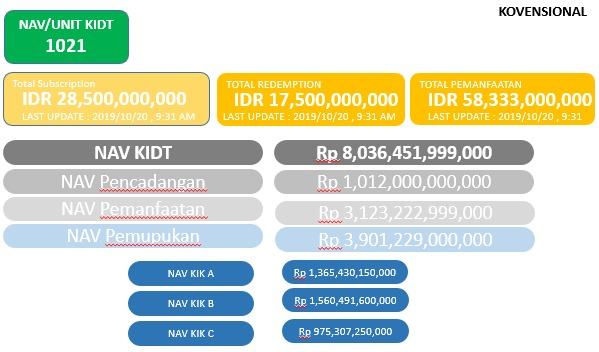
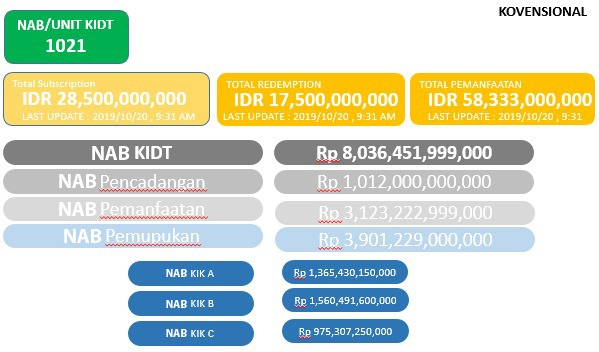
udah update

diff --git a/src/app/views/pages/dashboardreport/dashboardreport.component.html b/src/app/views/pages/dashboardreport/dashboardreport.component.html
@@ -83,7 +83,7 @@
                     </ng-container>
 
                     <ng-container matColumnDef="Total NAV">
-                        <th mat-header-cell *matHeaderCellDef mat-sort-header>Total NAV</th>
+                        <th mat-header-cell *matHeaderCellDef mat-sort-header>Total NAB</th>
                         <td mat-cell *matCellDef="let product">{{product.nav}}</td>
                     </ng-container>
 
@@ -151,7 +151,7 @@
                     </ng-container>
 
                     <ng-container matColumnDef="nav">
-                        <th mat-header-cell *matHeaderCellDef mat-sort-header>NAV</th>
+                        <th mat-header-cell *matHeaderCellDef mat-sort-header>NAB</th>
                         <td mat-cell *matCellDef="let product">{{product.nav}}</td>
                     </ng-container>
 
@@ -210,7 +210,7 @@
                     </ng-container>
 
                     <ng-container matColumnDef="nav">
-                        <th mat-header-cell *matHeaderCellDef mat-sort-header>NAV</th>
+                        <th mat-header-cell *matHeaderCellDef mat-sort-header>NAB</th>
                         <td mat-cell *matCellDef="let product">{{product.nav}}</td>
                     </ng-container>
 
@@ -219,11 +219,12 @@
                         <td mat-cell *matCellDef="let product">{{product.nilaik | currency:'Rp.'}}</td>
                     </ng-container>
                     <ng-container matColumnDef="tglsetor">
-                        <th mat-header-cell *matHeaderCellDef mat-sort-header>Setor</th>
+                        <th mat-header-cell *matHeaderCellDef mat-sort-header>Tanggal Setor</th>
                         <td mat-cell *matCellDef="let product">{{product.tsetor}}</td>
                     </ng-container>
                     <ng-container matColumnDef="jmlsetor">
                         <th mat-header-cell *matHeaderCellDef mat-sort-header>Jumlah</th>
+                        <!-- <td mat-cell *matCellDef="let product">{{product.nilaik | currency:'Rp.'}}</td> -->
                         <td mat-cell *matCellDef="let product">{{product.jmlsetor | currency:'Rp.'}}</td>
                     </ng-container>
                     <tr mat-header-row *matHeaderRowDef="displayedColumns2; sticky: true"></tr>
@@ -285,7 +286,7 @@
                         <td mat-cell *matCellDef="let product">{{product.kup | currency:'Rp.'}}</td>
                     </ng-container>
                     <ng-container matColumnDef="nav">
-                        <th mat-header-cell *matHeaderCellDef mat-sort-header>NAV</th>
+                        <th mat-header-cell *matHeaderCellDef mat-sort-header>NAB</th>
                         <td mat-cell *matCellDef="let product">{{product.nav}}</td>
                     </ng-container>
                     <ng-container matColumnDef="npsi">
@@ -352,7 +353,7 @@
                     <td mat-cell *matCellDef="let product">{{product.kup | currency:'Rp.'}}</td>
                 </ng-container>
                 <ng-container matColumnDef="nav">
-                    <th mat-header-cell *matHeaderCellDef mat-sort-header>NAV</th>
+                    <th mat-header-cell *matHeaderCellDef mat-sort-header>NAB</th>
                     <td mat-cell *matCellDef="let product">{{product.nav}}</td>
                 </ng-container>
                 <ng-container matColumnDef="npsi">

diff --git a/src/app/views/pages/faq/faq.component.html b/src/app/views/pages/faq/faq.component.html
@@ -42,7 +42,7 @@
                             <div class="card">
                                 <div class="card-header" id="accordion-tab-1-heading-2">
                                     <h5>
-                                        <button class="btn btn-link" type="button" data-toggle="collapse" data-target="#accordion-tab-1-content-2" aria-expanded="false" aria-controls="accordion-tab-1-content-2">Bender, I didn't know you liked cooking?</button>
+                                        <button class="btn btn-link" type="button" data-toggle="collapse" data-target="#accordion-tab-1-content-2" aria-expanded="false" aria-controls="accordion-tab-1-content-2">Apa Syarat Menjadi Peserta?</button>
                                     </h5>
                                 </div>
                                 <div class="collapse" id="accordion-tab-1-content-2" aria-labelledby="accordion-tab-1-heading-2" data-parent="#accordion-tab-1">
@@ -55,7 +55,7 @@
                             <div class="card">
                                 <div class="card-header" id="accordion-tab-1-heading-3">
                                     <h5>
-                                        <button class="btn btn-link" type="button" data-toggle="collapse" data-target="#accordion-tab-1-content-3" aria-expanded="false" aria-controls="accordion-tab-1-content-3">My fellow Earthicans?</button>
+                                        <button class="btn btn-link" type="button" data-toggle="collapse" data-target="#accordion-tab-1-content-3" aria-expanded="false" aria-controls="accordion-tab-1-content-3">Berapa lama pencairan Redemption?</button>
                                     </h5>
                                 </div>
                                 <div class="collapse" id="accordion-tab-1-content-3" aria-labelledby="accordion-tab-1-heading-3" data-parent="#accordion-tab-1">
@@ -68,7 +68,7 @@
                             <div class="card">
                                 <div class="card-header" id="accordion-tab-1-heading-4">
                                     <h5>
-                                        <button class="btn btn-link" type="button" data-toggle="collapse" data-target="#accordion-tab-1-content-4" aria-expanded="false" aria-controls="accordion-tab-1-content-4">Who am I making this out to?</button>
+                                        <button class="btn btn-link" type="button" data-toggle="collapse" data-target="#accordion-tab-1-content-4" aria-expanded="false" aria-controls="accordion-tab-1-content-4">Bagaimana Cara Mendapatkan User Baru?</button>
                                     </h5>
                                 </div>
                                 <div class="collapse" id="accordion-tab-1-content-4" aria-labelledby="accordion-tab-1-heading-4" data-parent="#accordion-tab-1">

diff --git a/src/app/views/pages/auth/login/login.component.ts b/src/app/views/pages/auth/login/login.component.ts
@@ -25,7 +25,7 @@ const DEMO_PARAMS = {
     PASSWORD: 'demo'
 };
 const GUEST_PARAMS = {
-    EMAIL: 'bptappera@demo.com',
+    EMAIL: 'bptapera@demo.com',
     PASSWORD: 'demo'
 };
 const PESERTA_PARAMS = {
@@ -178,7 +178,8 @@ export class LoginComponent implements OnInit, OnDestroy {
                 tap(user => {
                     if (user) {
                         this.store.dispatch(new Login({authToken: user.accessToken}));
-                        this.router.navigateByUrl(this.returnUrl); // Main page
+                        // this.router.navigateByUrl(this.returnUrl); // Main page
+                        this.router.navigateByUrl((user.roles[0] === 3) ? this.returnUrl+'bphome' : this.returnUrl);
                     } else {
                         this.authNoticeService.setNotice(this.translate.instant('AUTH.VALIDATION.INVALID_LOGIN'), 'danger');
                     }

diff --git a/src/app/core/auth/_server/users.table.ts b/src/app/core/auth/_server/users.table.ts
@@ -54,16 +54,16 @@ export class UsersTable {
         },
         {
             id: 3,
-            username: 'bptappera',
+            username: 'bptapera',
             password: 'demo',
-            email: 'bptappera@demo.com',
+            email: 'bptapera@demo.com',
             accessToken: 'access-token-d2dff7b82f784de584b60964abbe45b9',
             refreshToken: 'access-token-c999ccfe74aa40d0aa1a64c5e620c1a5',
             roles: [3], // Guest
             pic: './assets/media/users/default.jpg',
-            fullname: 'BP TAPPERA',
+            fullname: 'BP TAPERA',
             occupation: 'CFO',
-            companyName: 'BP Tappera',
+            companyName: 'BP Tapera',
             phone: '456669067892',
             address: {
                 addressLine: '1467  Griffin Street',

diff --git a/src/app/views/pages/bppengerahan/bppengerahan.component.html b/src/app/views/pages/bppengerahan/bppengerahan.component.html
@@ -23,7 +23,7 @@
                     <div class="kt-widgetlinebppengerahan2__header kt-margin-b-30">
                         <!-- <h3 class="kt-widget14__title">{{title}}</h3> -->
                         <h3 class="kt-widgetlinebppengerahan2__title"><span
-                                style="color: #1dc9b7;">Status Pemberi Kerja</span></h3>
+                                style="color: #1dc9b7;">Status Bayar</span></h3>
                     </div>
                     <div class="kt-widgetlinebppengerahan2__chart">
                         <p class="text-center">Total : 110</p>
